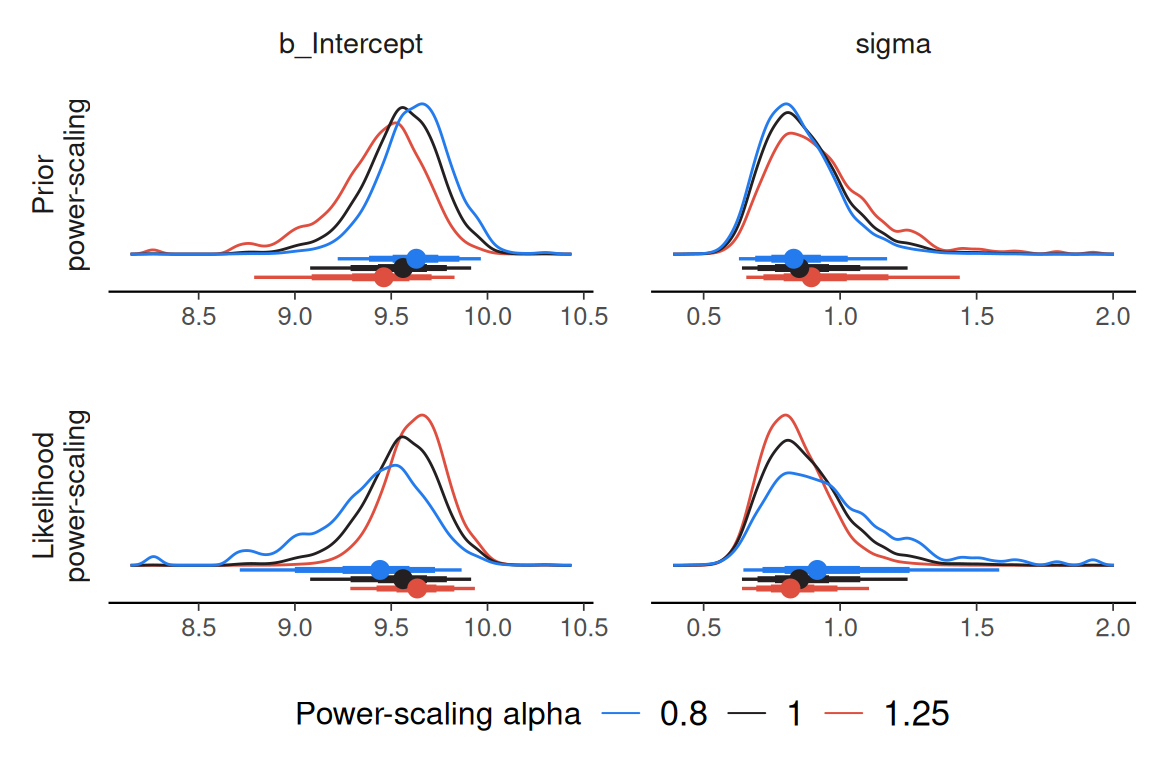
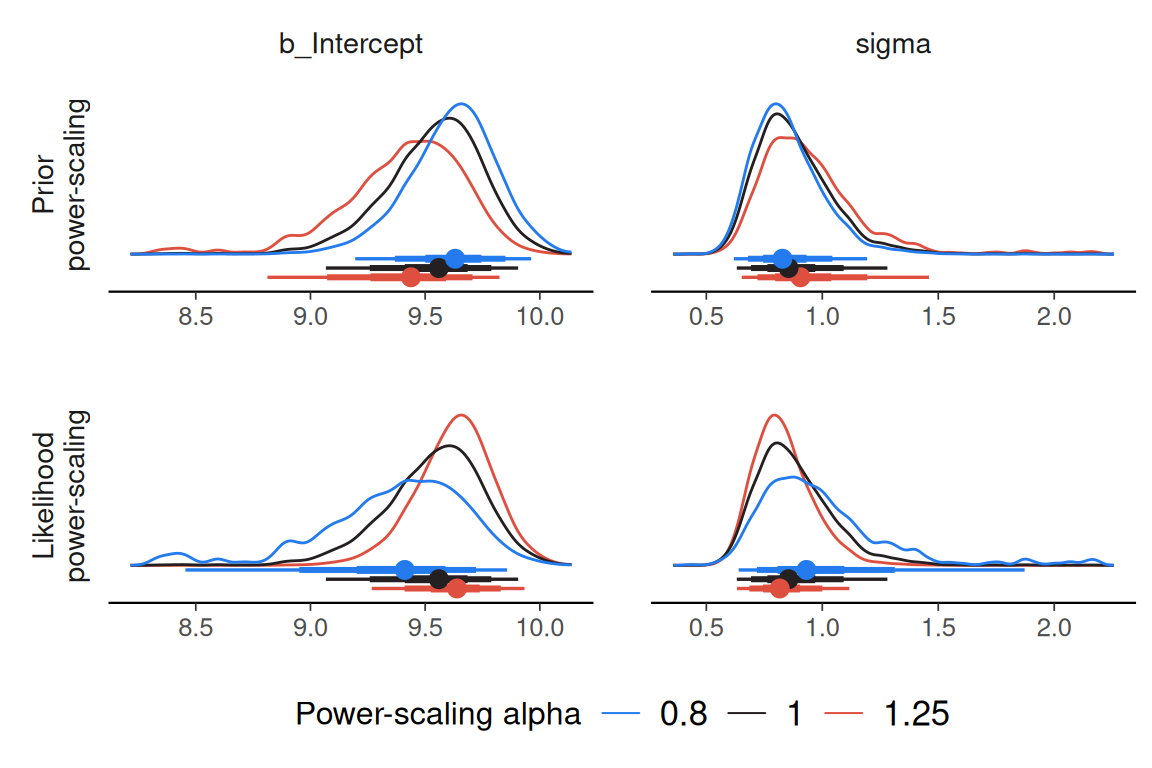
Deploying to gh-pages from @ n-kall/priorsense@70134531d20be5d6e02795a14893512183facd61 🚀

diff --git a/articles/priorsense_with_brms.html b/articles/priorsense_with_brms.html
@@ -107,8 +107,8 @@ Prior selection: all priors
 Likelihood selection: all data
 
     variable prior likelihood                           diagnosis
- b_Intercept 0.324      0.448 potential prior-likelihood conflict
-       sigma 0.240      0.432 potential prior-likelihood conflict</code></pre>
+ b_Intercept 0.407      0.577 potential prior-likelihood conflict
+       sigma 0.267      0.488 potential prior-likelihood conflict</code></pre>
 </div>
 </div>
 <div class="cell">
@@ -120,8 +120,8 @@ Prior selection: sigma
 Likelihood selection: all data
 
     variable prior likelihood diagnosis
- b_Intercept 0.003      0.448         -
-       sigma 0.006      0.432         -</code></pre>
+ b_Intercept 0.004      0.577         -
+       sigma 0.007      0.488         -</code></pre>
 </div>
 </div>
 <div class="cell">
@@ -133,8 +133,8 @@ Prior selection: intercept
 Likelihood selection: all data
 
     variable prior likelihood                           diagnosis
- b_Intercept 0.327      0.448 potential prior-likelihood conflict
-       sigma 0.246      0.432 potential prior-likelihood conflict</code></pre>
+ b_Intercept 0.411      0.577 potential prior-likelihood conflict
+       sigma 0.274      0.488 potential prior-likelihood conflict</code></pre>
 </div>
 </div>
 <div class="cell">

diff --git a/articles/priorsense_with_stan.html b/articles/priorsense_with_stan.html
@@ -121,9 +121,6 @@
 <span>  refresh <span class="op">=</span> <span class="cn">FALSE</span>,</span>
 <span>  seed <span class="op">=</span> <span class="fl">123</span></span>
 <span><span class="op">)</span></span></code></pre></div>
-<div class="cell-output cell-output-stderr">
-<pre><code>Trying to compile a simple C file</code></pre>
-</div>
 <div class="cell-output cell-output-stdout">
 <pre><code>Running /opt/R/4.6.0/lib/R/bin/R CMD SHLIB foo.c
 using C compiler: ‘gcc (Ubuntu 13.3.0-6ubuntu2~24.04.1) 13.3.0’
@@ -141,7 +138,7 @@ make: *** [/opt/R/4.6.0/lib/R/etc/Makeconf:190: foo.o] Error 1</code></pre>
 </div>
 <p>Then the <code>priorsense</code> functions will work as usual.</p>
 <div class="cell">
-<div class="sourceCode cell-code" id="cb7"><pre class="downlit sourceCode r">
+<div class="sourceCode cell-code" id="cb6"><pre class="downlit sourceCode r">
 <code class="sourceCode R"><span><span class="fu"><a href="../reference/powerscale-sensitivity.html">powerscale_sensitivity</a></span><span class="op">(</span><span class="va">fit</span><span class="op">)</span></span></code></pre></div>
 <div class="cell-output cell-output-stdout">
 <pre><code>Sensitivity based on cjs_dist
@@ -154,7 +151,7 @@ Likelihood selection: all data
 </div>
 </div>
 <div class="cell">
-<div class="sourceCode cell-code" id="cb9"><pre class="downlit sourceCode r">
+<div class="sourceCode cell-code" id="cb8"><pre class="downlit sourceCode r">
 <code class="sourceCode R"><span><span class="fu"><a href="../reference/powerscale-sensitivity.html">powerscale_sensitivity</a></span><span class="op">(</span><span class="va">fit</span>, prior_selection <span class="op">=</span> <span class="st">"sigma"</span><span class="op">)</span></span></code></pre></div>
 <div class="cell-output cell-output-stdout">
 <pre><code>Sensitivity based on cjs_dist
@@ -167,7 +164,7 @@ Likelihood selection: all data
 </div>
 </div>
 <div class="cell">
-<div class="sourceCode cell-code" id="cb11"><pre class="downlit sourceCode r">
+<div class="sourceCode cell-code" id="cb10"><pre class="downlit sourceCode r">
 <code class="sourceCode R"><span><span class="fu"><a href="../reference/powerscale-sensitivity.html">powerscale_sensitivity</a></span><span class="op">(</span><span class="va">fit</span>, prior_selection <span class="op">=</span> <span class="st">"mu"</span><span class="op">)</span></span></code></pre></div>
 <div class="cell-output cell-output-stdout">
 <pre><code>Sensitivity based on cjs_dist
@@ -180,7 +177,7 @@ Likelihood selection: all data
 </div>
 </div>
 <div class="cell">
-<div class="sourceCode cell-code" id="cb13"><pre class="downlit sourceCode r">
+<div class="sourceCode cell-code" id="cb12"><pre class="downlit sourceCode r">
 <code class="sourceCode R"><span><span class="fu"><a href="../reference/powerscale-plots.html">powerscale_plot_dens</a></span><span class="op">(</span><span class="va">fit</span><span class="op">)</span></span></code></pre></div>
 <div class="cell-output-display">
 <div>

diff --git a/authors.html b/authors.html
@@ -64,6 +64,14 @@
           <p><strong>Frank Weber</strong>. Contributor.
           </p>
         </li>
+        <li>
+          <p><strong>Simon Taylor</strong>. Reviewer.
+          </p>
+        </li>
+        <li>
+          <p><strong>Dylan Dijk</strong>. Reviewer.
+          </p>
+        </li>
       </ul></div>
 
     <div class="section level2">

diff --git a/reference/priorsense-package.html b/reference/priorsense-package.html
@@ -104,8 +104,8 @@ Computing</em>. 31(16).  <code>doi:10.1007/s11222-020-09982-2</code></p>
     </div>
     <div class="section level2">
     <h2 id="author">Author<a class="anchor" aria-label="anchor" href="#author"></a></h2>
-    <p><strong>Maintainer</strong>: Noa Kallioinen <a href="mailto:[email redacted]">[email redacted]</a> [copyright holder]</p>
-<p>Authors:</p><ul><li><p>Noa Kallioinen <a href="mailto:[email redacted]">[email redacted]</a> [copyright holder]</p></li>
+    <p><strong>Maintainer</strong>: Noa Kallioinen <a href="mailto:[email redacted]">[email redacted]</a> [copyright holder]</p>
+<p>Authors:</p><ul><li><p>Noa Kallioinen <a href="mailto:[email redacted]">[email redacted]</a> [copyright holder]</p></li>
 <li><p>Topi Paananen</p></li>
 <li><p>Paul-Christian Bürkner</p></li>
 <li><p>Aki Vehtari</p></li>

diff --git a/reference/powerscale-gradients.html b/reference/powerscale-gradients.html
@@ -160,7 +160,7 @@ method. See function <code><a href="cjs_dist.html">cjs_dist()</a></code> for mor
 <li><p><code>"ks_dist"</code>: Kolmogorov-Smirnov distance. See <code><a href="https://rdrr.io/r/stats/ks.test.html" class="external-link">stats::ks.test()</a></code>.</p></li>
 <li><p><code>"ws_dist"</code>: Wassterstein distance (pass <code>measure_args = list(p = N)</code>) for
 a different order, where N is the order. Requires the <code>transport</code>
-package. See <a href="https://rdrr.io/pkg/transport/man/wasserstein1d.html" class="external-link">transport::wasserstein1d</a>.</p></li>
+package. See <code><a href="https://rdrr.io/pkg/transport/man/wasserstein1d.html" class="external-link">transport::wasserstein1d()</a></code>.</p></li>
 </ul></dd>
 
 

diff --git a/reference/powerscale-plots.html b/reference/powerscale-plots.html
@@ -187,7 +187,7 @@ method. See function <code><a href="cjs_dist.html">cjs_dist()</a></code> for mor
 <li><p><code>"ks_dist"</code>: Kolmogorov-Smirnov distance. See <code><a href="https://rdrr.io/r/stats/ks.test.html" class="external-link">stats::ks.test()</a></code>.</p></li>
 <li><p><code>"ws_dist"</code>: Wassterstein distance (pass <code>measure_args = list(p = N)</code>) for
 a different order, where N is the order. Requires the <code>transport</code>
-package. See <a href="https://rdrr.io/pkg/transport/man/wasserstein1d.html" class="external-link">transport::wasserstein1d</a>.</p></li>
+package. See <code><a href="https://rdrr.io/pkg/transport/man/wasserstein1d.html" class="external-link">transport::wasserstein1d()</a></code>.</p></li>
 </ul></dd>
 
 

diff --git a/reference/powerscale-sensitivity.html b/reference/powerscale-sensitivity.html
@@ -157,7 +157,7 @@ method. See function <code><a href="cjs_dist.html">cjs_dist()</a></code> for mor
 <li><p><code>"ks_dist"</code>: Kolmogorov-Smirnov distance. See <code><a href="https://rdrr.io/r/stats/ks.test.html" class="external-link">stats::ks.test()</a></code>.</p></li>
 <li><p><code>"ws_dist"</code>: Wassterstein distance (pass <code>measure_args = list(p = N)</code>) for
 a different order, where N is the order. Requires the <code>transport</code>
-package. See <a href="https://rdrr.io/pkg/transport/man/wasserstein1d.html" class="external-link">transport::wasserstein1d</a>.</p></li>
+package. See <code><a href="https://rdrr.io/pkg/transport/man/wasserstein1d.html" class="external-link">transport::wasserstein1d()</a></code>.</p></li>
 </ul></dd>
 
 

diff --git a/articles/priorsense_with_brms.md b/articles/priorsense_with_brms.md
@@ -43,8 +43,8 @@ powerscale_sensitivity(fit)
     Likelihood selection: all data
 
         variable prior likelihood                           diagnosis
-     b_Intercept 0.324      0.448 potential prior-likelihood conflict
-           sigma 0.240      0.432 potential prior-likelihood conflict
+     b_Intercept 0.407      0.577 potential prior-likelihood conflict
+           sigma 0.267      0.488 potential prior-likelihood conflict
 
 ``` r
 
@@ -56,8 +56,8 @@ powerscale_sensitivity(fit, prior_selection = "sigma")
     Likelihood selection: all data
 
         variable prior likelihood diagnosis
-     b_Intercept 0.003      0.448         -
-           sigma 0.006      0.432         -
+     b_Intercept 0.004      0.577         -
+           sigma 0.007      0.488         -
 
 ``` r
 
@@ -69,8 +69,8 @@ powerscale_sensitivity(fit, prior_selection = "intercept")
     Likelihood selection: all data
 
         variable prior likelihood                           diagnosis
-     b_Intercept 0.327      0.448 potential prior-likelihood conflict
-           sigma 0.246      0.432 potential prior-likelihood conflict
+     b_Intercept 0.411      0.577 potential prior-likelihood conflict
+           sigma 0.274      0.488 potential prior-likelihood conflict
 
 ``` r
 

diff --git a/authors.md b/authors.md
@@ -12,6 +12,10 @@
 
 - **Frank Weber**. Contributor.
 
+- **Simon Taylor**. Reviewer.
+
+- **Dylan Dijk**. Reviewer.
+
 ## Citation
 
 Source:

diff --git a/reference/priorsense-package.md b/reference/priorsense-package.md
@@ -60,12 +60,12 @@ Implicitly adaptive importance sampling. *Statistics and Computing*.
 
 ## Author
 
-**Maintainer**: Noa Kallioinen <[email redacted]> \[copyright
+**Maintainer**: Noa Kallioinen <[email redacted]> \[copyright
 holder\]
 
 Authors:
 
-- Noa Kallioinen <[email redacted]> \[copyright holder\]
+- Noa Kallioinen <[email redacted]> \[copyright holder\]
 
 - Topi Paananen
 

diff --git a/articles/priorsense_with_stan.md b/articles/priorsense_with_stan.md
@@ -62,8 +62,6 @@ fit <- rstan::stan(
 )
 ```
 
-    Trying to compile a simple C file
-
     Running /opt/R/4.6.0/lib/R/bin/R CMD SHLIB foo.c
     using C compiler: ‘gcc (Ubuntu 13.3.0-6ubuntu2~24.04.1) 13.3.0’
     gcc -std=gnu2x -I"/opt/R/4.6.0/lib/R/include" -DNDEBUG   -I"/home/runner/work/_temp/Library/Rcpp/include/"  -I"/home/runner/work/_temp/Library/RcppEigen/include/"  -I"/home/runner/work/_temp/Library/RcppEigen/include/unsupported"  -I"/home/runner/work/_temp/Library/BH/include" -I"/home/runner/work/_temp/Library/StanHeaders/include/src/"  -I"/home/runner/work/_temp/Library/StanHeaders/include/"  -I"/home/runner/work/_temp/Library/RcppParallel/include/"  -I"/home/runner/work/_temp/Library/rstan/include" -DEIGEN_NO_DEBUG  -DBOOST_DISABLE_ASSERTS  -DBOOST_PENDING_INTEGER_LOG2_HPP  -DSTAN_THREADS  -DUSE_STANC3 -DSTRICT_R_HEADERS  -DBOOST_PHOENIX_NO_VARIADIC_EXPRESSION  -D_HAS_AUTO_PTR_ETC=0  -include '/home/runner/work/_temp/Library/StanHeaders/include/stan/math/prim/fun/Eigen.hpp'  -D_REENTRANT -DRCPP_PARALLEL_USE_TBB=1   -I/usr/local/include    -fpic  -g -O2  -c foo.c -o foo.o

diff --git a/reference/powerscale-gradients.md b/reference/powerscale-gradients.md
@@ -125,7 +125,7 @@ powerscale_gradients(
   - `"ws_dist"`: Wassterstein distance (pass
     `measure_args = list(p = N)`) for a different order, where N is the
     order. Requires the `transport` package. See
-    [transport::wasserstein1d](https://rdrr.io/pkg/transport/man/wasserstein1d.html).
+    [`transport::wasserstein1d()`](https://rdrr.io/pkg/transport/man/wasserstein1d.html).
 
 - measure_args:
 